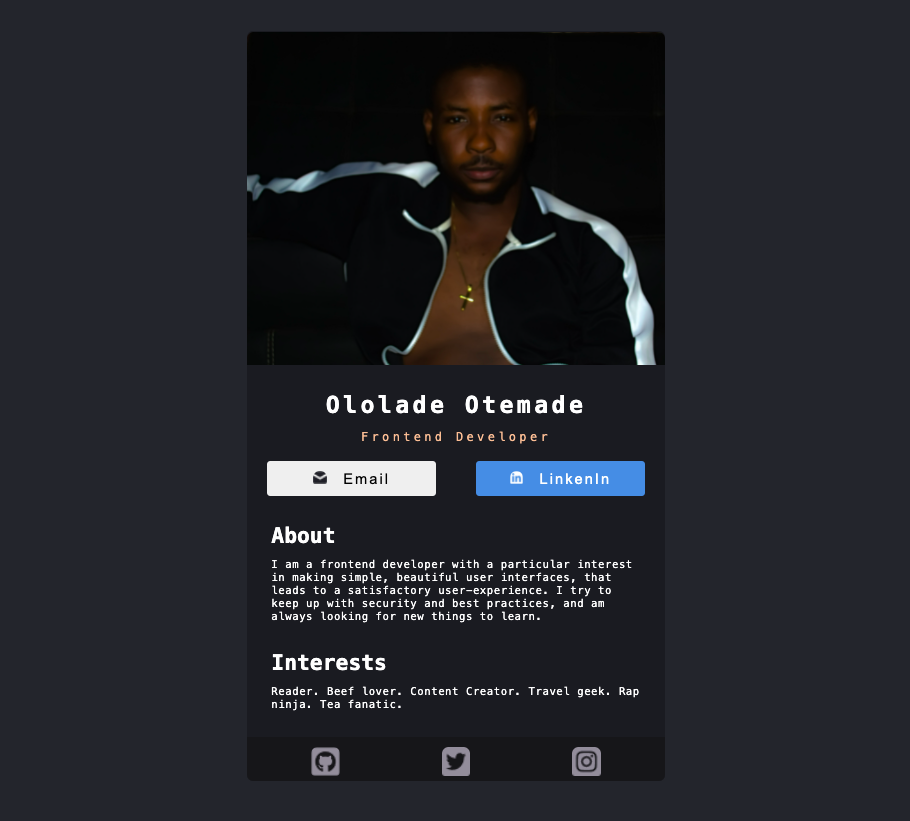
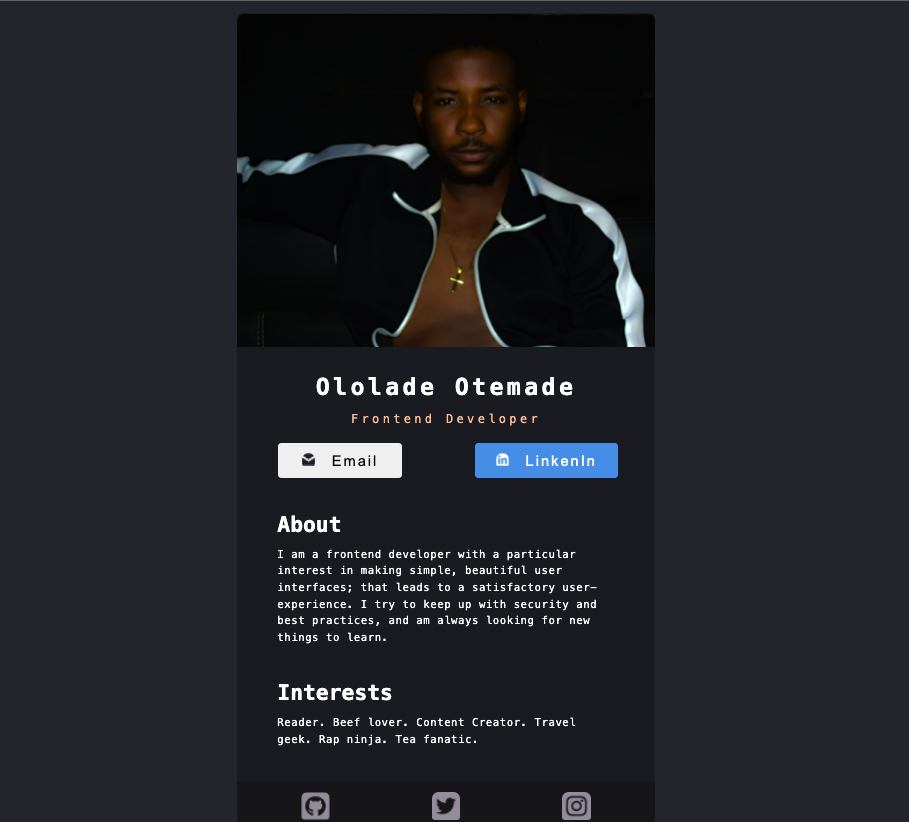
Business-card-app created

diff --git a/src/index.css b/src/index.css
@@ -62,7 +62,7 @@ img {
   margin-top: 25px;
 }
 
-.header > .contact-buttons > button {
+.header > .contact-buttons > a > button {
   display: inline-block;
   width: 80%;
   border: none;
@@ -76,11 +76,12 @@ img {
   letter-spacing: 3px;
 }
 
-.header > .contact-buttons > button > a > img{
+.header > .contact-buttons > a > button > img{
   width: 20px;
   height: 20px;
   margin-right: 25px;
 }
+
 
 .button2 {
   background: #5093E2;
@@ -92,19 +93,20 @@ img {
 }
 
 .about {
-  margin: 40px 36px;
+  margin: 50px 60px;
   text-align: left;
   color: #fff
 }
 
 .interest {
-  margin: 40px 36px;
+  margin: 50px 60px;
   text-align: left;
   color: #fff
 }
 
 .details {
   margin-top: 15px;
+  line-height: 25px;
   letter-spacing: 0.8px;
 }
 
@@ -115,12 +117,12 @@ img {
   border-radius: 0px 0px 10px 10px;
   display: flex;
   justify-content: space-around;
-  padding: 15px 20px;
+  padding: 15px 20px 20px 20px;
 }
 
 .footer > a > img {
-  width: 43px;
-  height: 43px;
+  width: 40px;
+  height: 40px;
 }
 /* font-family: -apple-system, BlinkMacSystemFont, 'Segoe UI', 'Roboto', 'Oxygen',
     'Ubuntu', 'Cantarell', 'Fira Sans', 'Droid Sans', 'Helvetica Neue',

diff --git a/src/components/Info.js b/src/components/Info.js
@@ -8,8 +8,8 @@ function Info() {
             <h2 className="name">Ololade Otemade</h2>
             <p className="title">Frontend Developer</p>
             <div className="contact-buttons">
-                <button type="submit"><a href="mailto:adeniyiotemade@gmail.com"><img src={emailLogo} alt="Email-logo"/>Email</a></button>
-                <button type="submit" className="button2"><a href="https://www.linkedin.com/in/ololade-otemade-72959613a/" target="_blank"><img src={linkedInLogo} alt="LinkenIn-logo"/>LinkenIn</a></button>
+                <a href="mailto:adeniyiotemade@gmail.com"><button type="submit"><img src={emailLogo} alt="Email-logo"/>Email</button></a>
+                <a href="https://www.linkedin.com/in/ololade-otemade-72959613a/" target="_blank"><button type="submit" className="button2"><img src={linkedInLogo} alt="LinkenIn-logo"/>LinkenIn</button></a>
             </div>
         </div>
     )
